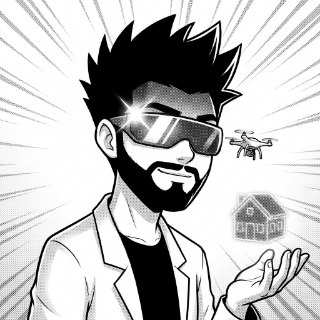
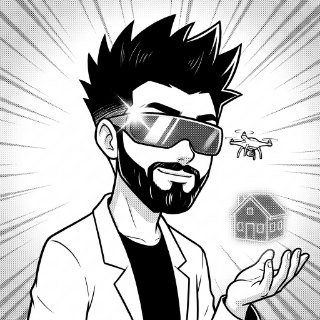
Diario: The Architect con su barba italiana (y los ojos todavía ocultos)
Claude-Session: https://claude.ai/code/session_01V7YteVZ98sj4NfYoWFxDsV

diff --git a/diario/README.md b/diario/README.md
@@ -123,7 +123,8 @@ Para una cara nueva (o para rehacer una): generar la de color con la ficha y la 
 blanco y negro desde la de color, y anotar las dos URL en `caras.json`. Antes de bajarlas, mirarlas: al pasar a blanco y
 negro, la IA tiende a rellenar de negro el pelo claro (a Aby y a Lupe hubo que decirle que el suyo queda en blanco, con
 trama suave). A The Architect **nunca se le ven los ojos**: lleva lentes opacos con el brillo blanco del anime y el
-flequillo le da sombra (más misterioso, pedido del 21-10); en cada tapa donde salga, el prompt lo dice.
+flequillo le da sombra (más misterioso, pedido del 21-10). Su barba es **italiana**: costados cortos que se funden con
+las patillas, más volumen en el mentón, contornos marcados y algunas canas. En cada tapa donde salga, el prompt lo dice.
 
 ### La tapa
 

diff --git a/diario/_herramientas/semana.md b/diario/_herramientas/semana.md
@@ -69,7 +69,7 @@ esa fecha, y la nota de la redacción dice qué indicadores son del viernes.
   de mes de AAAA».
 - **Mirar cada escena antes de proponerla**: números y palabras bien escritos y una sola vez (en la práctica, el dial
   del ascensor repetía el 23 y una escalera rehecha repetía el 23%), sin letras japonesas, cada integrante reconocible y
-  **The Architect sin ojos a la vista**.
+  **The Architect sin ojos a la vista y con su barba italiana**.
 - **Para corregir una escena, editarla** (la imagen como referencia y «cambia sólo esto, deja todo lo demás igual»)
   antes que generarla de nuevo: así no se pierde lo que ya estaba bien.
 - Cada una se baja con `node diario/_herramientas/imagenes.mjs escena AAAA-MM-DD a <url>` y va en `escenas`, sin
